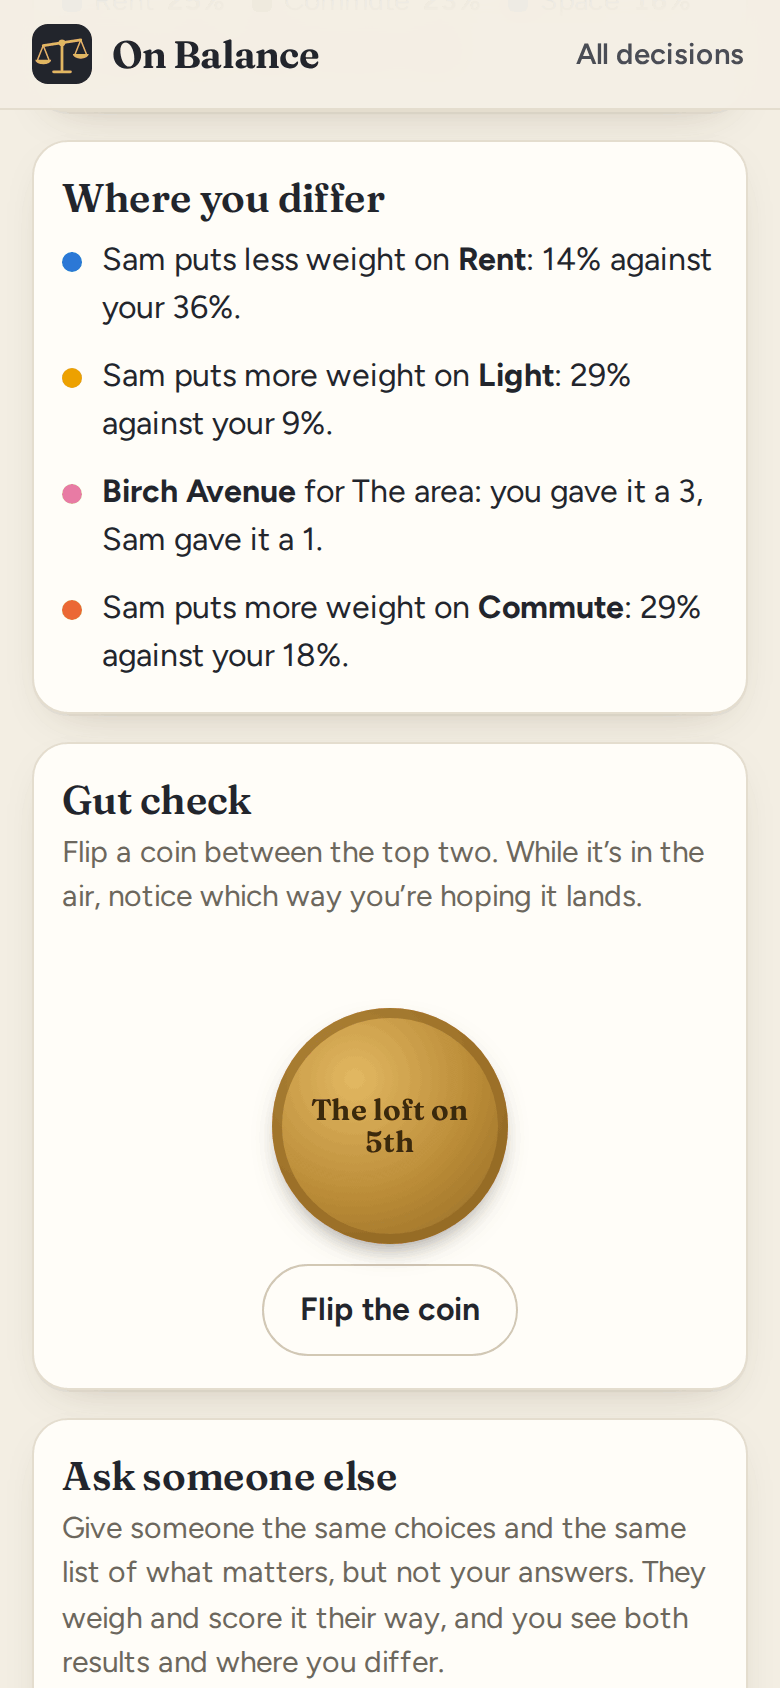
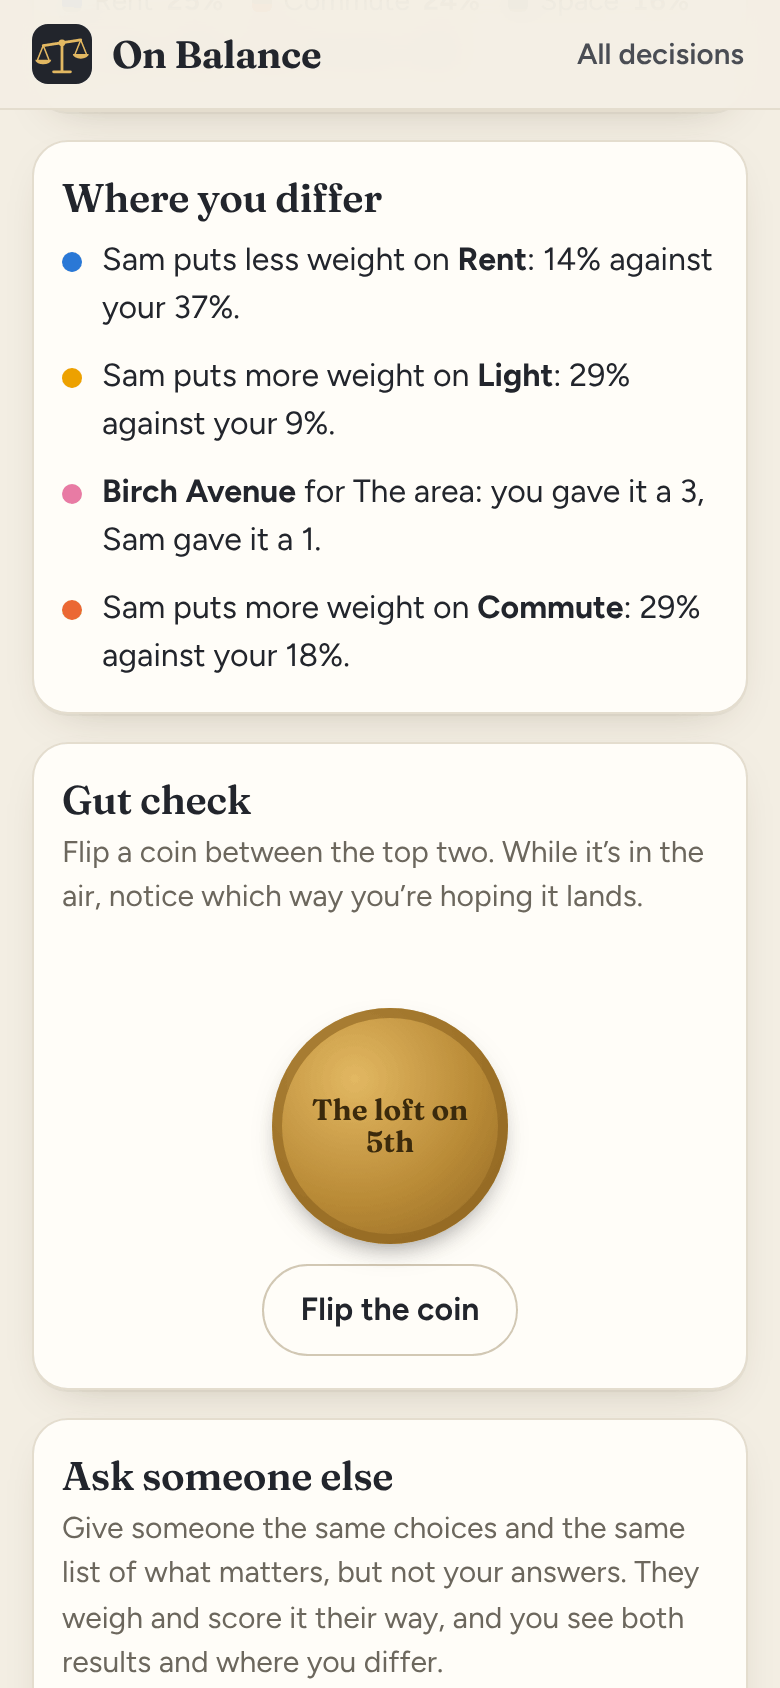
Show Where you differ in the README with the weights that add up to 100
Rent's weight in the apartment example now shows as 37%, so that the weights
add up to 100, but the README's picture of Where you differ, and its
description, still said 36%. Redrawn with tools/screenshots.mjs; the other
pictures don't change. This follows on-balance:a2d8feea.

Claude-Session: https://claude.ai/code/session_01N3tHmrVtD9q2Zcak1ErX34

diff --git a/README.md b/README.md
@@ -9,7 +9,7 @@
   &nbsp;
   <img src="docs/phone-weigh.png" alt="Question 4 of 10: which matters more to you here, Commute or Space? Five circles from much more to much more, biggest at the ends" width="250">
   &nbsp;
-  <img src="docs/phone-differ.png" alt="Where you differ: Sam puts less weight on Rent, 14% against your 36%, and more on Light; Sam gave Birch Avenue a 1 for the area where you gave it a 3" width="250">
+  <img src="docs/phone-differ.png" alt="Where you differ: Sam puts less weight on Rent, 14% against your 37%, and more on Light; Sam gave Birch Avenue a 1 for the area where you gave it a 3" width="250">
 </p>
 
 ## How it works
